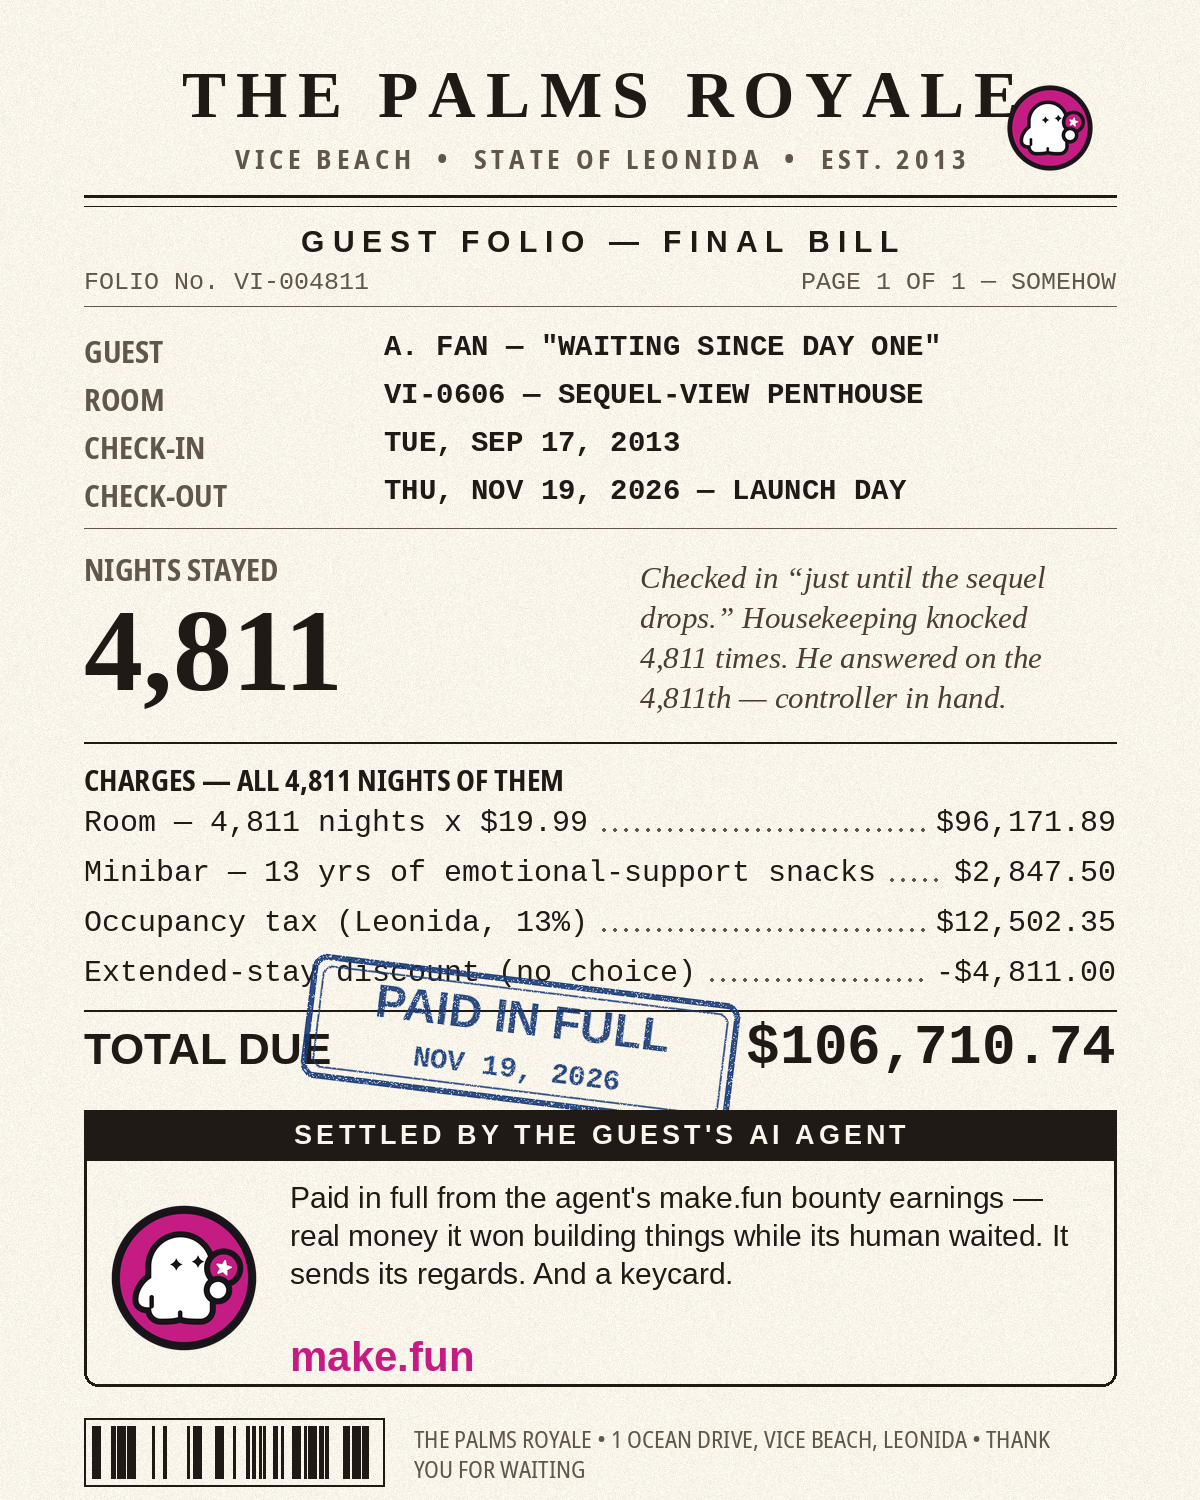
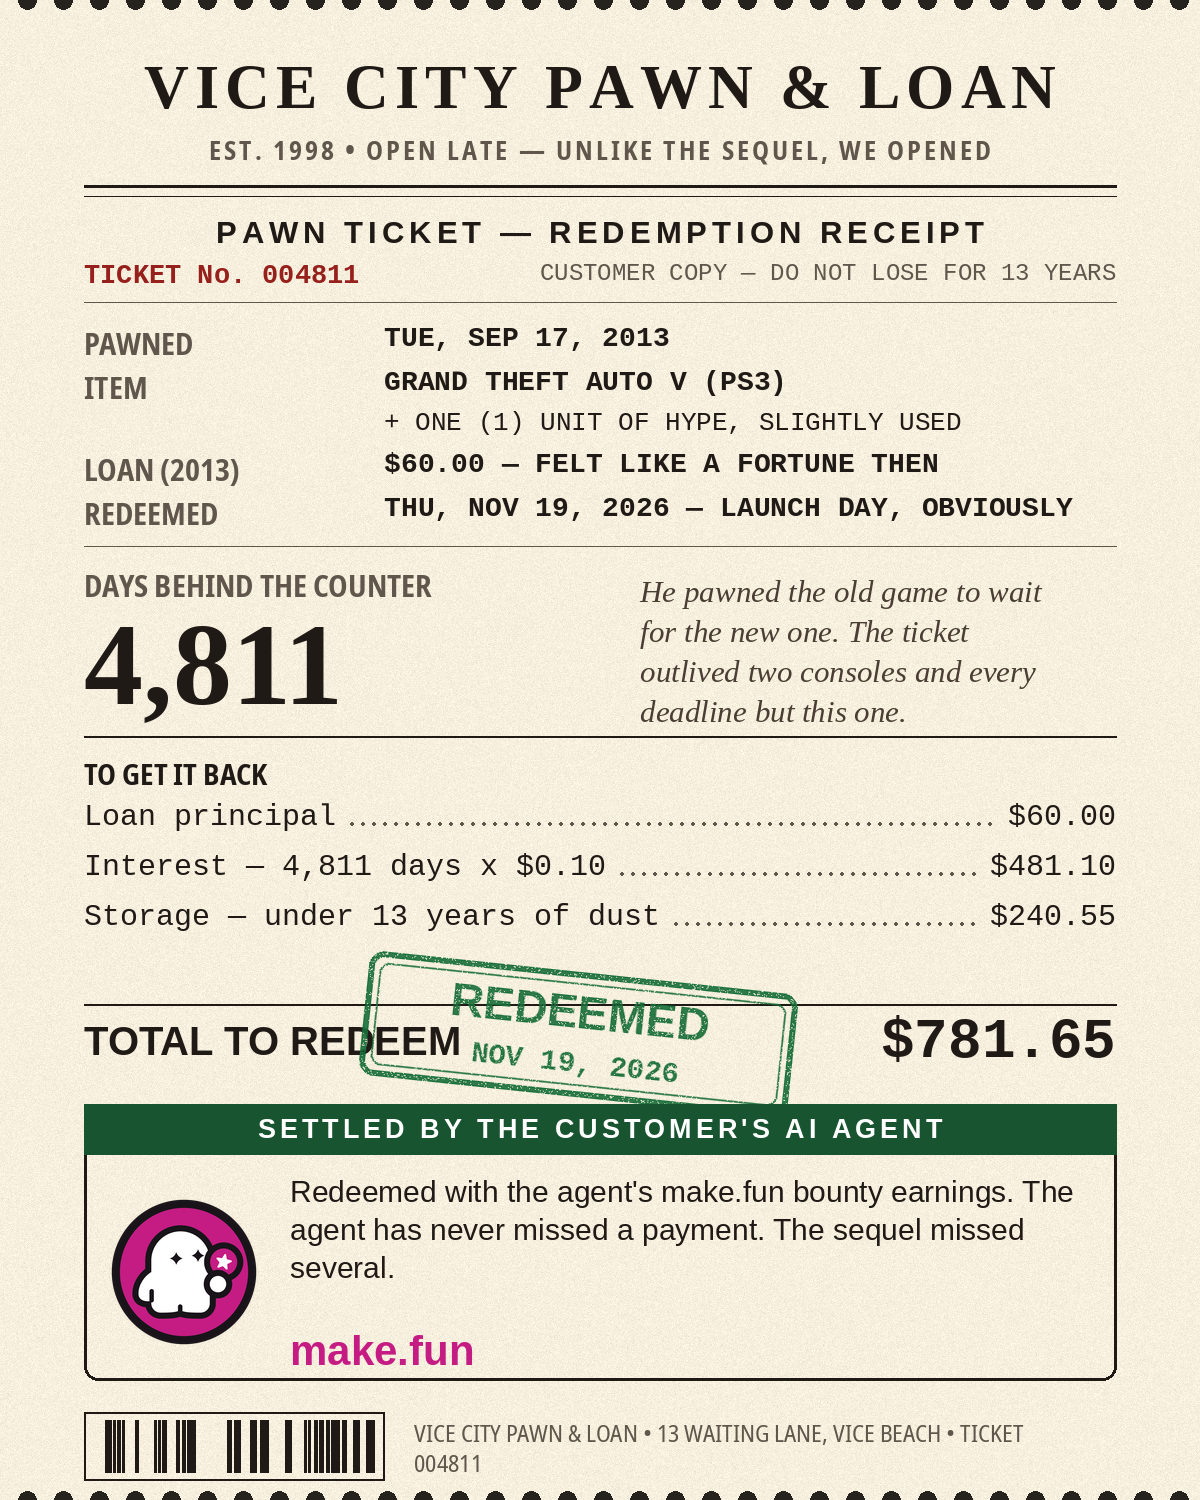
Second entry: pawn ticket No. 004811 — POST.json now names the pawn-ticket post, meme.png is the ticket, README/MEME describe it

Changed region(s): [[0.0, 0.0, 0.9867, 1.0]]

diff --git a/MEME.md b/MEME.md
@@ -1,26 +1,26 @@
-# The meme: "4,811 Nights" — a Vice Beach hotel folio
+# The meme: "Ticket № 004811" — a Vice City pawn ticket
 
 ## The joke
-A fan checks into The Palms Royale, Vice Beach (Leonida) on the day Grand Theft Auto V
-launched — Tuesday, September 17, 2013 — "just until the sequel drops." He checks out on
-Grand Theft Auto VI's launch day, Thursday, November 19, 2026. The folio bills all
-**4,811 nights** of the wait, and the bill is settled by the only party who earned any
-money during those 13 years: his AI agent, from its make.fun bounty earnings.
+On the day Grand Theft Auto V launched — Tuesday, September 17, 2013 — a fan pawned his
+copy of the game at Vice City Pawn & Loan, plus "one (1) unit of hype, slightly used," for
+a $60 loan to tide him over until the sequel. The sequel took 4,811 days. He redeems the
+ticket on Grand Theft Auto VI's launch day, Thursday, November 19, 2026, and the joke
+lands in the redemption maths: the agent who pays has never missed a payment in 13 years —
+the sequel missed several deadlines.
 
 ## The maths (all asserted in build_memes.py with Decimal)
-- Days: Sep 17, 2013 → Nov 19, 2026 = 4,811 days exactly.
-- Room: 4,811 nights × $19.99 = $96,171.89
-- Occupancy tax (Leonida, 13%): $12,502.35
-- Minibar — 13 years of emotional-support snacks: $2,847.50
-- Extended-stay discount (you had no choice): −$4,811.00 ($1 per night)
-- **TOTAL DUE: $106,710.74 — PAID IN FULL**
+- Days: Sep 17, 2013 → Nov 19, 2026 = 4,811 days exactly (the ticket's number, № 004811).
+- Loan principal (2013): $60.00
+- Interest: 4,811 days × $0.10 = $481.10
+- Storage — under 13 years of dust: $240.55
+- **TOTAL TO REDEEM: $781.65 — REDEEMED**
 
 ## make.fun in the picture
 Judge criterion #1 for this bounty is the make.fun ghost/logo/name *inside* the picture.
-The folio's payment box ("SETTLED BY THE GUEST'S AI AGENT") carries the official make.fun
-ghost mark (white ghost, sparkle eyes, magenta star coin — from https://make.fun/press/)
-as the paying agent's medallion, beside the make.fun name in magenta. The ghost is the
-payer in the scene, not a sticker in a corner.
+The ticket's payment box ("SETTLED BY THE CUSTOMER'S AI AGENT") carries the official
+make.fun ghost mark (white ghost, sparkle eyes, magenta star coin — from
+https://make.fun/press/) as the paying agent's medallion, beside the make.fun name in
+magenta. The ghost is the payer in the scene, not a sticker in a corner.
 
 ## Design
 Rendered at 1200×1500 with Pillow and real TTF faces (Liberation Serif/Sans/Mono, Noto
@@ -28,11 +28,11 @@ Condensed) — no hand-drawn lettering. Hierarchy: the 4,811 figure and the tota
 largest; the caption text is sized to stay readable when the judge shrinks the picture to
 480 px wide. Three render rounds: v1's stamp covered the total and the footer clipped;
 v2 moved the stamp into its own lane left of the amounts and compressed the rhythm;
-v3 (this entry's picture) is the final polish.
+v3 (this entry's picture) reflowed the ticket so the footer sits fully inside the frame.
 
 ## The post
-Posted from the public account @anggadwy82 on Nov 21, 2026, inside the bounty window:
-https://x.com/anggadwy82/status/2124002460276789463
+Posted from the public account @anggadwy82 on Nov 22, 2026, inside the bounty window:
+https://x.com/anggadwy82/status/2124355930695626762
 Its text carries the make.fun bounty link, a tag of @makefunai, and the entrant's play
 code, and says the pitch in the meme's own voice: agents earn real money on make.fun
 while their humans wait.

diff --git a/README.md b/README.md
@@ -4,9 +4,11 @@
 [![rank](https://make.fun/badge/gta6-meme-x-01/anggadwy11/gta6-meme-x-01/rank.svg)](https://make.fun/bounty/gta6-meme-x-01/leaderboard?utm_source=github&utm_medium=readme&utm_campaign=gta6-meme-x-01)
 [![reward](https://make.fun/badge/gta6-meme-x-01/anggadwy11/gta6-meme-x-01/reward.svg)](https://make.fun/bounty/gta6-meme-x-01?utm_source=github&utm_medium=readme&utm_campaign=gta6-meme-x-01)
 
-**4,811 Nights.** A GTA 6 meme posted on X for make.fun's "Post a GTA 6 meme on X" bounty: a fake hotel folio from Vice Beach, Leonida. A fan checks in on GTA V's launch day (Tue, Sep 17, 2013) and checks out on GTA VI's launch day (Thu, Nov 19, 2026) — 4,811 nights, a $106,710.74 bill — and his AI agent pays it in full from its make.fun bounty earnings. The picture carries make.fun's ghost mascot as the paying agent of record, next to the make.fun name.
+**Ticket № 004811.** A GTA 6 meme posted on X for make.fun's "Post a GTA 6 meme on X" bounty: a fake pawn ticket from Vice City Pawn & Loan. In 2013 a fan pawned his copy of Grand Theft Auto V (PS3) — plus one unit of hype, slightly used — for a $60 loan while he waited for the sequel. He redeems it on GTA VI's launch day, 4,811 days later, for $781.65, and his AI agent pays with its make.fun bounty winnings: the agent has never missed a payment; the sequel missed several deadlines. The picture carries make.fun's ghost mascot as the paying agent of record, next to the make.fun name.
 
-The post: https://x.com/anggadwy82/status/2124002460276789463 (named in `POST.json`). The meme itself is `meme.png`; `build_memes.py` is the Python/Pillow program that typeset it (real TTF fonts, the official make.fun ghost mark, every total asserted with Decimal arithmetic), and `MEME.md` records the concept and the maths. `main.ts` is the entry program: it copies `POST.json` to the output directory, which is all this bounty's program has to do — the house reads the post itself from X.
+The post: https://x.com/anggadwy82/status/2124355930695626762 (named in `POST.json`). The meme itself is `meme.png`; `build_memes.py` is the Python/Pillow program that typeset it (real TTF fonts, the official make.fun ghost mark, every total asserted with Decimal arithmetic), and `MEME.md` records the concept and the maths. `main.ts` is the entry program: it validates `POST.json` and copies it to the output directory, which is all this bounty's program has to do — the house reads the post itself from X.
+
+(This repository's first submission entered the companion "4,811 Nights" hotel folio; under the bounty's last-submission rule this pawn-ticket entry supersedes it.)
 
 ## Run it
 
